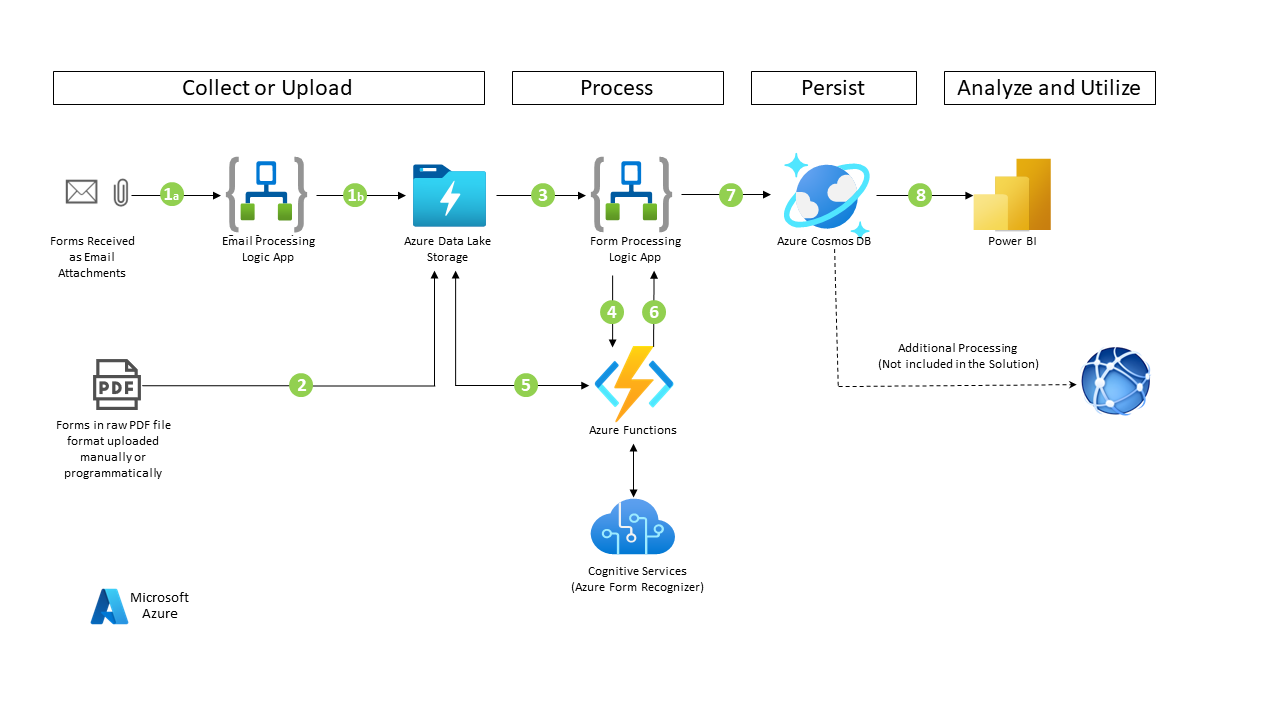
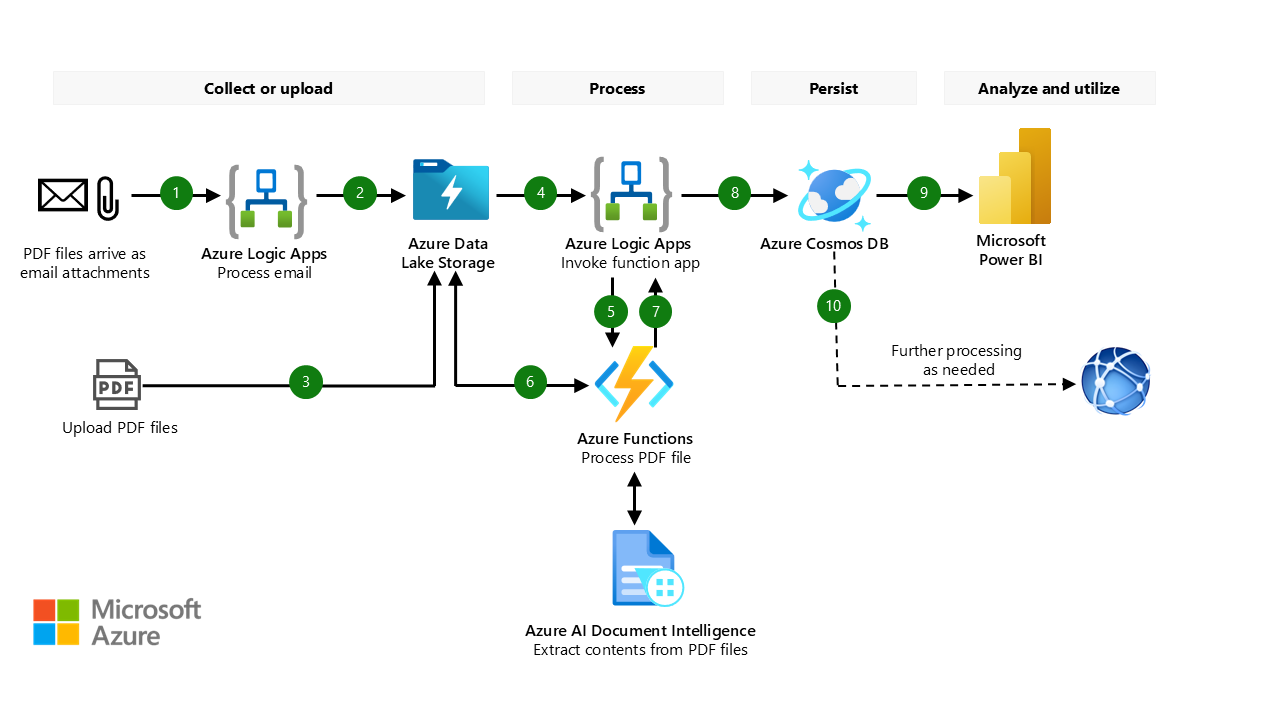
form recognizer to doc intelligence and other minor changes

diff --git a/Deployment/Code/RecognizeFile/__init__.py b/Deployment/Code/RecognizeFile/__init__.py
@@ -65,9 +65,9 @@ def main(req: func.HttpRequest) -> func.HttpResponse:
         client_id = os.getenv("RG_MID_CLIENT_ID")
         my_credential = DefaultAzureCredential(managed_identity_client_id=client_id)
 
-        ##################################################################
-        # Start working with form recognizer 
-        ##################################################################
+        ######################################################################
+        # Start working with document intelligence (formerly form recognizer) 
+        ######################################################################
 
         # All set as environment variables in Functions App Settings 
         fr_endpoint = os.getenv("AZURE_FORM_RECOGNIZER_ENDPOINT")
@@ -75,7 +75,7 @@ def main(req: func.HttpRequest) -> func.HttpResponse:
         model_id = os.getenv("CUSTOM_BUILT_MODEL_ID")
         
         if not (fr_endpoint and apim_key and model_id):
-            raise ValueError("Form Recognizer endpoint, key, or model ID not found in environment variables.")
+            raise ValueError("Doc Intelligence aka Form Recognizer endpoint, key, or model ID not found in environment variables.")
 
         document_analysis_client = DocumentAnalysisClient(
             endpoint=fr_endpoint, credential=AzureKeyCredential(apim_key))
@@ -84,14 +84,14 @@ def main(req: func.HttpRequest) -> func.HttpResponse:
                 model_id=model_id, document_url=input_blob_url)
         analyzedResult = poller.result() # analyzedResult -AnalyzeResult Class 
 
-        logging.info(f"Form recognizer analyzed successfully.")
+        logging.info(f"Doc Intelligence aka Form recognizer analyzed successfully.")
 
         ##################################################################
-        # End working with form recognizer 
+        # End working with document intelligence aka form recognizer 
         ##################################################################
 
         ################################################################## 
-        # Process form Recognizer Output 
+        # Process Output 
         # Prepare output files for uploading to Azure Storage 
         # Prepare HTTP Output
         field_list = [] # List of Objects

diff --git a/README.md b/README.md
@@ -35,19 +35,17 @@ To use the solution accelerator, you only need to collect sample PDF forms, trai
 
 **Limitations:** Each PDF form must fit into **a single page pdf file**. If the PDF file contains multiple pages, the system assumes that each page is a self-contained PDF form, and will split the multi-page PDF file into single pages before processing. After splitting, each split file will be only one page, containing a single form. Please review the sample files posted here to see the format: [Single Page PDF File Sample](./Deployment/Data/samples/test/contoso_set_1/ContosoSafety360-Sample-1.pdf) and [Multi Page PDF File Sample](./Deployment/Data/samples/test/contoso_set_1/ContosoSafety360-Combo-1.pdf).
 
-**How to deploy and test the solution?**  The solution is supplied with sample manufacture safety forms, form recognizer labeled files, and a Power BI model. Please follow the step by step [Deployment Guide](./Deployment/README.md) to deploy and set up the solution to your own Azure subscription, test the solution with the test forms supplied, and then visualized the data using the Power BI model supplied. 
+**How to deploy and test the solution?**  The solution is supplied with sample manufacture safety forms, azure AI Document Intelligence labeled files, and a Power BI model. Please follow the step by step [Deployment Guide](./Deployment/README.md) to deploy and set up the solution to your own Azure subscription, test the solution with the test forms supplied, and then visualized the data using the Power BI model supplied. 
 
-**Key Azure technologies** utilized in this solution are:  Azure Data Lake Storage,  Azure Form Recognizer, Azure Logic Apps, Azure Functions App, Azure Cosmos DB, and Power BI.  **The Azure Form Recognizer** is a cloud-based Azure Applied AI service that uses machine learning models to extract and analyze fields, text, and tables from documents or images. **Azure Logic App** is a cloud-based platform for creating and running automated end-to-end workflows. **Azure Functions App** provides low-cost, custom application logic development and data processing capabilities to help businesses solve complex problems with ease of design, development, deployment, and maintenance. **Azure Cosmos DB** is a fully managed, serverless NoSQL database for high-performance applications of any size or scale. 
-
-![Process flow](./Deployment/Images/Process-Flow.png "Process flow")
+**Key Azure technologies** utilized in this solution are:  Azure Data Lake Storage,  Azure AI Document Intelligence, Azure Logic Apps, Azure Functions App, Azure Cosmos DB, and Power BI.  **The Azure AI Document Intelligence** is a cloud-based Azure Applied AI services to extract and analyze fields, text, and tables from documents or images. **Azure Logic App** is a cloud-based platform for creating and running automated end-to-end workflows. **Azure Functions App** provides low-cost, custom application logic development and data processing capabilities to help businesses solve complex problems with ease of design, development, deployment, and maintenance. **Azure Cosmos DB** is a fully managed, serverless NoSQL database for high-performance applications of any size or scale. 
 
 ## Prerequisites
 
-To use this solution accelerator, you will need access to an [Azure subscription](https://azure.microsoft.com/en-us/free/). An understanding of Azure Form Recognizer, Azure Form Recognizer Studio, Azure Logic Apps, Azure Functions, Azure Cosmos DB, and Power BI will be helpful. 
+To use this solution accelerator, you will need access to an [Azure subscription](https://azure.microsoft.com/en-us/free/). An understanding of Azure AI Document Intelligence, Azure Logic Apps, Azure Functions, Azure Cosmos DB, and Power BI will be helpful. 
 
 For additional training and support, please review:
 
-1. [Azure Form Recognizer](https://azure.microsoft.com/en-us/services/form-recognizer/)
+1. [Azure AI Document Intelligence](https://learn.microsoft.com/en-us/azure/ai-services/document-intelligence/overview?view=doc-intel-4.0.0)
 2. [Azure Logic Apps](https://azure.microsoft.com/en-us/services/logic-apps/#overview)
 3. [Azure Functions](https://docs.microsoft.com/en-us/azure/azure-functions/functions-overview)
 4. [Azure Data Lake Storage](https://docs.microsoft.com/en-us/azure/storage/blobs/data-lake-storage-introduction)
@@ -65,7 +63,7 @@ Below architecture diagram illustrates the main components and information flow 
 
 ## Power BI Dashboard
 
-Below Power BI dashboard illustrates overview of sample safety form processing results, showing the number of occurrences by selected categories. The category is the field key defined by the Azure Form Recognizer labeling tool.  
+Below Power BI dashboard illustrates overview of sample safety form processing results, showing the number of occurrences by selected categories. The category is the field key defined by the Azure AI Document Intelligence labeling tool.  
 
 ![PBI w Text Search](./Deployment/Images/PBI-Overview.png)
 

diff --git a/Deployment/2_machine_learning_model/README.md b/Deployment/2_machine_learning_model/README.md
@@ -1,8 +1,8 @@
-# Create Form Recognizer Machine Learning Model 
-Follow the steps below to train a form recognizer composite machine learning (ML) model. This also includes the steps to train a non-composite ML model. 
+# Create Document Intelligence Machine Learning Model 
+Follow the steps below to train a composite machine learning (ML) model. This also includes the steps to train a non-composite ML model. 
 
 ## Step 1: Locate the Sample Data Files
-After finishing the deployment process described in [Deployment Scripts Guide](../1_deployment_scripts/README.md), your form recognizer resource should be ready for you to start creating new Form Recognizer ML model. From your cloned repository, navigate to the project root directory then to `Deployment\Data\samples\train`
+After finishing the deployment process described in [Deployment Scripts Guide](../1_deployment_scripts/README.md), your document intelligence resource should be ready for you to start creating new ML model. From your cloned repository, navigate to the project root directory then to `Deployment\Data\samples\train`
 
 You will see two folders that contain sample training forms, as illustrated below. 
 
@@ -15,22 +15,23 @@ You will see two folders that contain sample training forms, as illustrated belo
 4. In the `train` folder, create two folders. One named `contoso_set_1` and the other named `contoso_set_2`.  
 5. Upload the sample labeling files in [Data/samples/train/contoso_set_1](../Data/samples/train/contoso_set_1) and [Data/samples/train/contoso_set_2](../Data/samples/train/contoso_set_2)  into the corresponding folders. You now have two full sets of pre-labeled data to create the machine learning models. 
 
-### Step 3: Train and Merge Form Recognizer ML Models  
-In this step you will train custom Azure Form Recognizer ML models and merge them into a composite model. For more information, please refer to Azure online document [Compose Custom Models v3.0](https://docs.microsoft.com/en-us/azure/applied-ai-services/form-recognizer/compose-custom-models-v3?tabs=studio).
-1. Go to [Form Recognizer Studio](https://formrecognizer.appliedai.azure.com/studio), scroll down to  `Custom Model` and select `Create new`, as illustrated below. 
+### Step 3: Train and Merge ML Models  
+In this step you will train custom ML models and merge them into a composite model. For more information, please refer to Azure online document [how to create and compose custom models with Document Intelligence](https://learn.microsoft.com/en-us/azure/ai-services/document-intelligence/how-to-guides/compose-custom-models?view=doc-intel-4.0.0&viewFallbackFrom=form-recog-3.0.0&preserve-view=true&tabs=studio).
+
+1. Go to [Document Intelligence Studio - Microsoft Azure](https://documentintelligence.ai.azure.com/studio), scroll down to  `Custom Model` and select `Create new`, as illustrated below. 
 
 ![FR Create Custom Model](../Images/FR-Create-Custom-Model.png)
 
 2. Select `+Create a project` to create a project. 
 3. Enter a project name. For example `SafetyFormProject-Set-1` or any other project name of your choice.
-4. Enter a project description. For example `Custom form recognizer model with samples contoso_set_1` and click `Continue`.
-5. Select your Subscription, Resource Group and Azure Form Recognizer created by the deployment scripts [main-deploy.ps1](../1_deployment_scripts/main-deploy.ps1). 
+4. Enter a project description. For example `Custom model with samples contoso_set_1` and click `Continue`.
+5. Select your Subscription, Resource Group and Azure AI Document Intelligence created by the deployment scripts [main-deploy.ps1](../1_deployment_scripts/main-deploy.ps1). 
 6. Select the latest API Version. This solution was tested with API version 2022-08-31, as illustrated below. Click `Continue`.![FR Custom Model AIP Version](../Images/FR-Custom-Model-API-Version.png)
 7. Now you will be prompted to enter the training data source, as illustrated below. Select your subscription. Select Resource Group, and Azure storage created by the deployment scripts [main-deploy.ps1](../1_deployment_scripts/main-deploy.ps1). Enter `samples` in the Blob container field. Enter `train/contoso_set_1` in the Folder path field. Click `Continue`. 
 
 ![FR Training Data Set](../Images/FR-Training-Data-Set.png)
 
-8. Review Information and click `Create Project`. This step connects the form recognizer studio to Azure data lake storage/container resource in your subscription to access the training data. 
+8. Review Information and click `Create Project`. This step connects the document intelligence studio to Azure data lake storage/container resource in your subscription to access the training data. 
 9. After the project is created, forms with OCR, field key and value pair will appear as illustrated below. Click '`Train`' on upper right corner, 
 
 ![FR Label Data and Train](../Images/FR-Label-Data-and-Train.png)

diff --git a/Deployment/Architecture_Description/README.md b/Deployment/Architecture_Description/README.md
@@ -3,30 +3,20 @@ Below architecture diagram illustrates the main components and information flow 
 
 ## ![Architecture Diagram](../Images/Arch-SA-PDF-Form-Processing-Automation-AAC.png "PDF Form Processing Automation Architecture Diagram")
 
-## Architecture Workflow 
+## Workflow 
 
 The workflow corresponding to the above architecture is described as below: 
 
-1. Receiving and processing PDF forms received from an  outlook email account. This is an optional feature that can be omitted if not necessary. 
-
-- [ ] 1a. Designated outlook email account receives PDF files as Attachments, which triggers the email processing logic app to start processing. This is a designated and dedicated email account that receives PDF forms as attachments. It will be good practice to limit the senders to only trusted parties and avoid malicious actors from spamming outlook email account.
-- [ ] 1b. The email processing logic app extracts and uploads the PDF Attachments to a specified container in Azure Data Lake Storage, for example, `files-1-input`. This container name is configurable from the deployment scripts published in the GitHub Repository.
-
-2. PDF forms are manually or programmatically uploaded to the `files-1-input` container in Azure Data Lake Storage.
-3. Whenever PDF forms are uploaded to the specified azure storage `files-1-input` container, it will trigger the form processing logic app to start processing the PDF forms. 
-4. The form processing logic app sends the location of the received PDF file to Azure Functions App for processing. 
-5. Azure Functions App receives the location of file, and triggers multiple events:
-
-```
-(A) The Functions App splits the file into single pages if the file has multiple pages, with each page containing one independent form. Split files are saved to Azure Data Lake Storage, in the container `files-2-split`. 
-
-(B) Via REST API (HTTPS POST), the Azure Functions app sends the location of the single page PDF file to Azure Form Recognizer for processing and receives response. The functions app prepares the response into desired data structure. 
-
-(C) Azure Functions App saves the structured data as JSON file to Azure Data Lake Storage, in the container, `file-3-recognized`. 
-```
-
-6. The form processing logic app receives the processed response data. 
-
-7. The form processing logic app sends the processed data to Azure Cosmos DB. Azure Cosmos DB saves the data into specified database and collections.
-
-8. Power BI is connected to Azure Cosmos DB to receive data and provide insights/dashboards.
+1. A designated Outlook email account receives PDF files as attachments. The arrival of an email triggers a logic app to process the email. The logic app is built by using the capabilities of Azure Logic Apps.
+1. The logic app uploads the PDF files to a container in Azure Data Lake Storage.
+1. You can also manually or programmatically upload PDF files to the same PDF container.
+1. The arrival of a PDF file in the PDF container triggers another logic app to process the PDF forms that are in the PDF file.
+1. The logic app sends the location of the PDF file to a function app for processing. The function app is built by using the capabilities of Azure Functions.
+1. The function app receives the location of the file and takes these actions:
+   1. It splits the file into single pages if the file has multiple pages. Each page contains one independent form. Split files are saved to a second container in Data Lake Storage.
+   1. It uses HTTPS POST, an Azure REST API, to send the location of the single-page PDF file to AI Document Intelligence for processing. When Azure AI Document Intelligence completes its processing, it sends a response back to the function app, which places the information into a data structure.
+   1. It creates a JSON data file that contains the response data and stores the file to a third container in Data Lake Storage.
+1. The forms processing logic app receives the processed response data.
+1. The forms processing logic app sends the processed data to Azure Cosmos DB, which saves the data in a database and in collections.
+1. Power BI obtains the data from Azure Cosmos DB and provides insights and dashboards.
+1. You can implement further processing as needed on the data that's in Azure Cosmos DB.

diff --git a/Deployment/1_deployment_scripts/README.md b/Deployment/1_deployment_scripts/README.md
@@ -22,7 +22,7 @@ You will prompted for the followings:
 1. `subscriptionId` (Azure Subscription ID)
 1. `location` (Azure Region)
 1. `resourceGroupName` (Resource Group Name, new or existing)
-1. `aadEmail` (Your Azure Active Directory Email)
+1. `aadEmail` (Email associated with your Microsoft Entra ID, formerly Azure Active Directory)
 1. `resourceNamePrefix` (This prefix will be added to the beginning of all the deployed resource names.) 
 
 The PowerShell scripts also executes **Azure Functions Core Tools** command to deploy Python code to Azure Functions app. 
@@ -46,7 +46,7 @@ You will prompted for the followings:
 
 ## Additional Information
 
-In order to grant you the right permissions to create a key vault and use the key vault to securely save and retrieve sensitive information, the script needs your Azure Active Directory user Object ID, which is associated with your AAD email. If you have issue deploying the key vault and receiving error on policy, please check your azure active directory (AAD) `Object ID` associated with your AAD email. To find your AAD Object ID, go to Azure Portal, on left pane, click `Azure Active Directory`, then on left pane, under `Manage`, click `users`. Search for user and click the user, you will find the user AAD Object ID. Copy the value of `Object ID` .
+In order to grant you the right permissions to create a key vault and use the key vault to securely save and retrieve sensitive information, the script needs your Microsoft Entra ID user Object ID, which is associated with your registred email. If you have issue deploying the key vault and receiving error on policy, please check your Microsoft Entra ID  `Object ID` associated with your registerd email. To find your Microsoft Entra ID Object ID, go to Azure Portal, on left pane, click `Microsoft Entra ID`, then on left pane, under `Manage`, click `users`. Search for user and click the user, you will find the user AAD Object ID. Copy the value of `Object ID` .
 
 In [main-deploy.ps1](./main-deploy.ps1), replace this line "`$objectId = az ad user show --id $aadEmail --query id`" with "`$objectId ='your-aad-object-id'`", where `your-aad-object-id` needs to be the Object ID value you copied above. 
 

diff --git a/Deployment/3_solution_configuration/README.md b/Deployment/3_solution_configuration/README.md
@@ -5,8 +5,8 @@ Please follow the steps below to set up the solution accelerator.
 
 1. From the the [Azure Portal](https://portal.azure.com), locate your subscription and resource group you used to deploy the solution in the previous steps.
 2. Find the Azure Functions App, click the resource and get to its overview page. 
-3. On left panel, under section `Settings`, click `Configuration`.  Under the **Application settings**, locate `CUSTOM_BUILT_MODEL_ID`, click it and edit the value. Replace with the model id you created from form recognizer when you trained the model. If you followed the instructions in the [Machine Learning Model Guide](../2_machine_learning_model/README.md), your model id was set as `contoso-safety-forms`. 
-4. click `OK` and then `Save`. After this, your azure functions app will work with this form recognizer model.![PowerBIDataSource](../Images/AF-Set-Configuration-Model-ID.png)
+3. On left panel, under section `Settings`, click `Configuration`.  Under the **Application settings**, locate `CUSTOM_BUILT_MODEL_ID`, click it and edit the value. Replace with the model id you created from Azure Document Intelligence when you trained the model. If you followed the instructions in the [Machine Learning Model Guide](../2_machine_learning_model/README.md), your model id was set as `contoso-safety-forms`. 
+4. click `OK` and then `Save`. After this, your azure functions app will work with this model.![PowerBIDataSource](../Images/AF-Set-Configuration-Model-ID.png)
 
 ## Step 2: Set Up Outlook Logic App (Optional)
 

diff --git a/Deployment/README.md b/Deployment/README.md
@@ -9,7 +9,7 @@ For a quick video introduction, you can watch the 18 min YouTube Video: [Azure P
 
 Follow instructions in the folder `1_deployment_scripts`: [Deployment Scripts Guide](./1_deployment_scripts/README.md). 
 
-## Step 2: Create Form Recognizer Machine Learning Model
+## Step 2: Create Machine Learning Model
 
 Follow instructions in the folder `2_machine_learning_model` : [Machine Learning Model Guide](./2_machine_learning_model/README.md).
 
